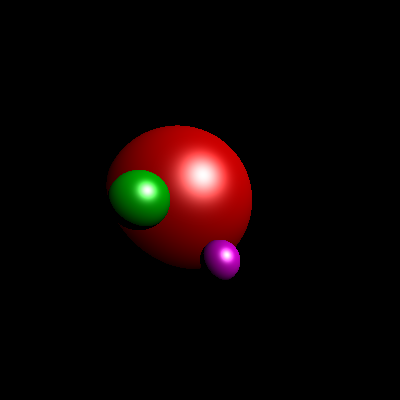
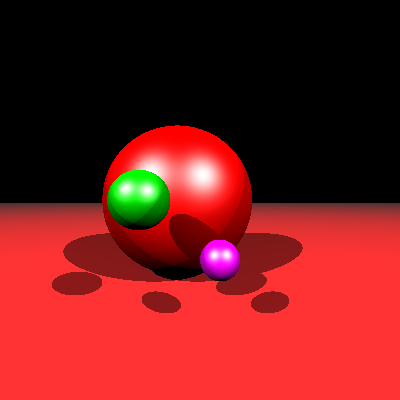
updates

diff --git a/main.py b/main.py
@@ -1,26 +1,10 @@
-# harsh - is_shadow
-# amal - is_shadow
-# karthik - frame
-# rohit - frame
-
-
 import numpy as np
-# import pycuda.driver as cuda
-# import pycuda.autoinit
-# from pycuda.compiler import SourceModule
 import matplotlib.pyplot as plt
 
 def ray_direction(origin, point):
     vector = point - origin
     return vector / np.linalg.norm(vector)
   
-# def set_frame(cam_pos, cam_dir, sep_frame, height, AR):
-# 	 frame_center = cam_pos + cam_dir*sep_frame
-#    elevation = np.arctan2(cam_dir[2], np.sqrt(cam_dir[0]**2 + cam_dir[1]**2))
-    
-# 	 frame_tl = frame_center + f
-  
-
 def sphere_intersection(origin, ray_direction, center, radius):
     a = 1 # norm(ray_direction)^{2}
     b = 2 * np.dot(ray_direction, origin - center)
@@ -74,7 +58,8 @@ def color(normal_surface, light_intersection, ray_dir, single_object, light):
     illumination += single_object.ambient * light.ambient
     illumination += single_object.diffuse * light.diffuse * np.dot(normal_surface, light_intersection)
     illumination += single_object.specular * light.specular * (np.dot(normal_surface, (light_intersection - ray_dir)/np.linalg.norm(light_intersection - ray_dir)))**(0.25*single_object.shininess)
-    return np.clip(illumination, 0, 1)
+    return illumination
+    # return np.clip(illumination, 0, 1)
 
 
 
@@ -108,10 +93,14 @@ image = np.zeros([nr, nc, 3])
 objects = np.array([
   					Sphere([-0.2, 0, -1], 0.7, [0.1, 0, 0], [0.7, 0, 0], [1, 1, 1], 100), 
                     Sphere([0.1, -0.3, 0], 0.1, [0.1, 0, 0.1], [0.7, 0, 0.7], [1, 1, 1], 100), 
-                    Sphere([-0.3, 0, 0], 0.15, [0, 0.1, 0], [0, 0.6, 0], [1, 1, 1], 100)
+                    Sphere([-0.3, 0, 0], 0.15, [0, 0.1, 0], [0, 0.6, 0], [1, 1, 1], 100),
+  					Sphere([-0.2, -9000.7, -1], 9000, [0.1, 0.1, 0.1], [0.7, 0, 0], [1, 1, 1], 100), 
 					])
 
-light = Light([5, 5, 5], [1, 1, 1], [1, 1, 1], [1, 1, 1])
+lights = np.array([
+                   Light([5, 5, 5], [1, 1, 1], [1, 1, 1], [1, 1, 1]),
+                   Light([-5, 5, 5], [1, 1, 1], [1, 1, 1], [1, 1, 1]),
+                ])
 
 
 for i, y in enumerate(np.linspace(screen[1], screen[3], nr)):
@@ -124,12 +113,15 @@ for i, y in enumerate(np.linspace(screen[1], screen[3], nr)):
         if nearest_object_idx is None:
         	continue
         
-        is_shadowed, normal_surface, light_intersection = shadowed(min_dist, origin, ray_dir, light.position, objects, nearest_object_idx)
-        if is_shadowed:
-        	continue
+        for light in lights:
+            is_shadowed, normal_surface, light_intersection = shadowed(min_dist, origin, ray_dir, light.position, objects, nearest_object_idx)
+            if is_shadowed:
+                continue
+            
+            image[i, j] += color(normal_surface, light_intersection, ray_dir, objects[nearest_object_idx], light)
         
-        image[i, j] = color(normal_surface, light_intersection, ray_dir, objects[nearest_object_idx], light)
     print("%d/%d" % (i + 1, nr))
 
+image = np.clip(image, 0, 1)
 plt.imsave('image.png', image)
 
